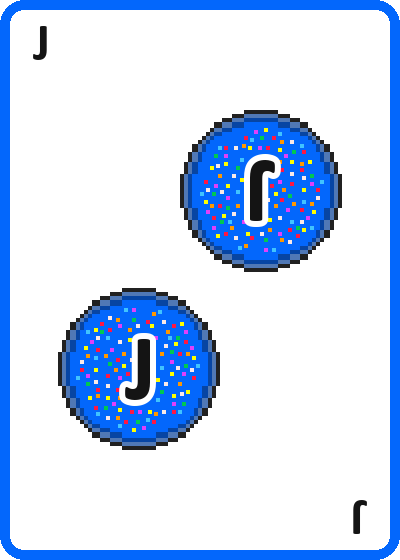
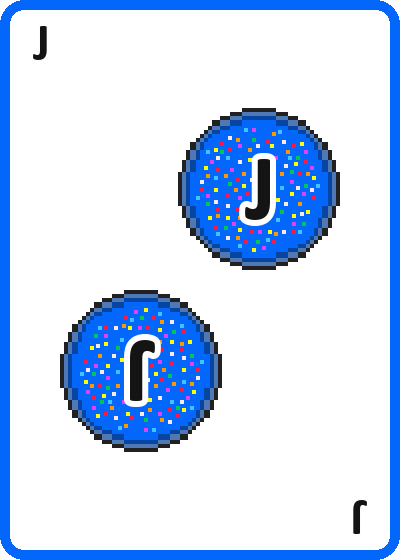
Put the readable letter top right on jacks, queens and kings
The donut in the top right now has the letter the right way up, and the
one in the bottom left is the upside-down copy.

Changed region(s): [[0.42, 0.1821, 0.87, 0.4857], [0.12, 0.5161, 0.57, 0.8196]]

diff --git a/scripts/make_cards.py b/scripts/make_cards.py
@@ -100,13 +100,14 @@ def number_card(rank, holed, border):
 
 
 def face_card(rank, full, colour, border):
-    """A full donut with the letter on it, and the same again upside down."""
+    """A full donut with the letter on it, readable in the top right, and the same again
+    upside down in the bottom left."""
     donut = full.resize((full.width * 2, full.height * 2), Image.NEAREST)
     write(donut, (100, 100), rank[0].upper(), 95, fill=colour, stroke_width=6,
           stroke_fill="white")
     card = blank(border)
-    paste(card, donut, 140, 370)
-    paste(card, donut, 260, 190, flip=True)
+    paste(card, donut, 260, 190)
+    paste(card, donut, 140, 370, flip=True)
     return card
 
 
